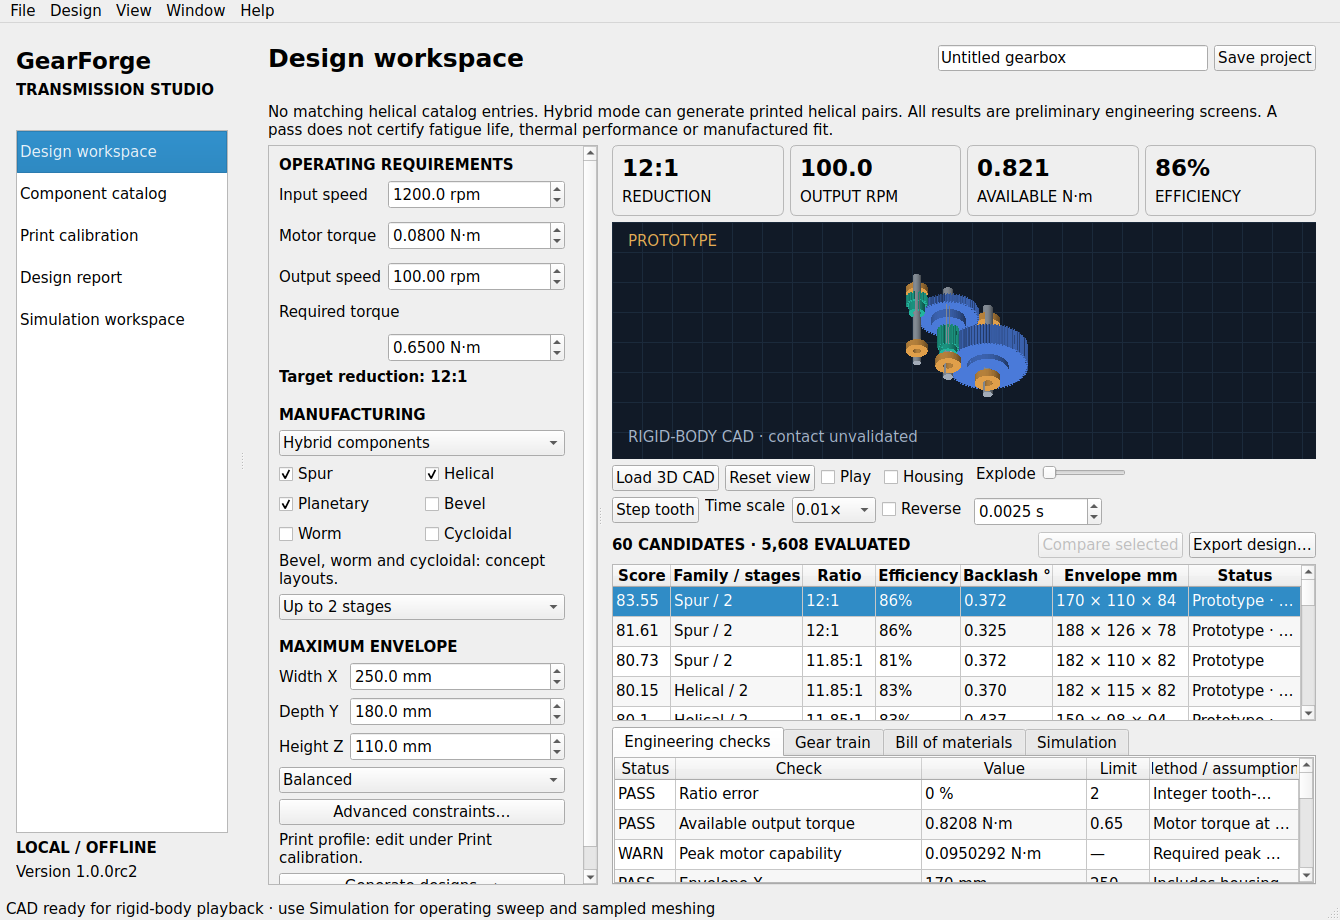
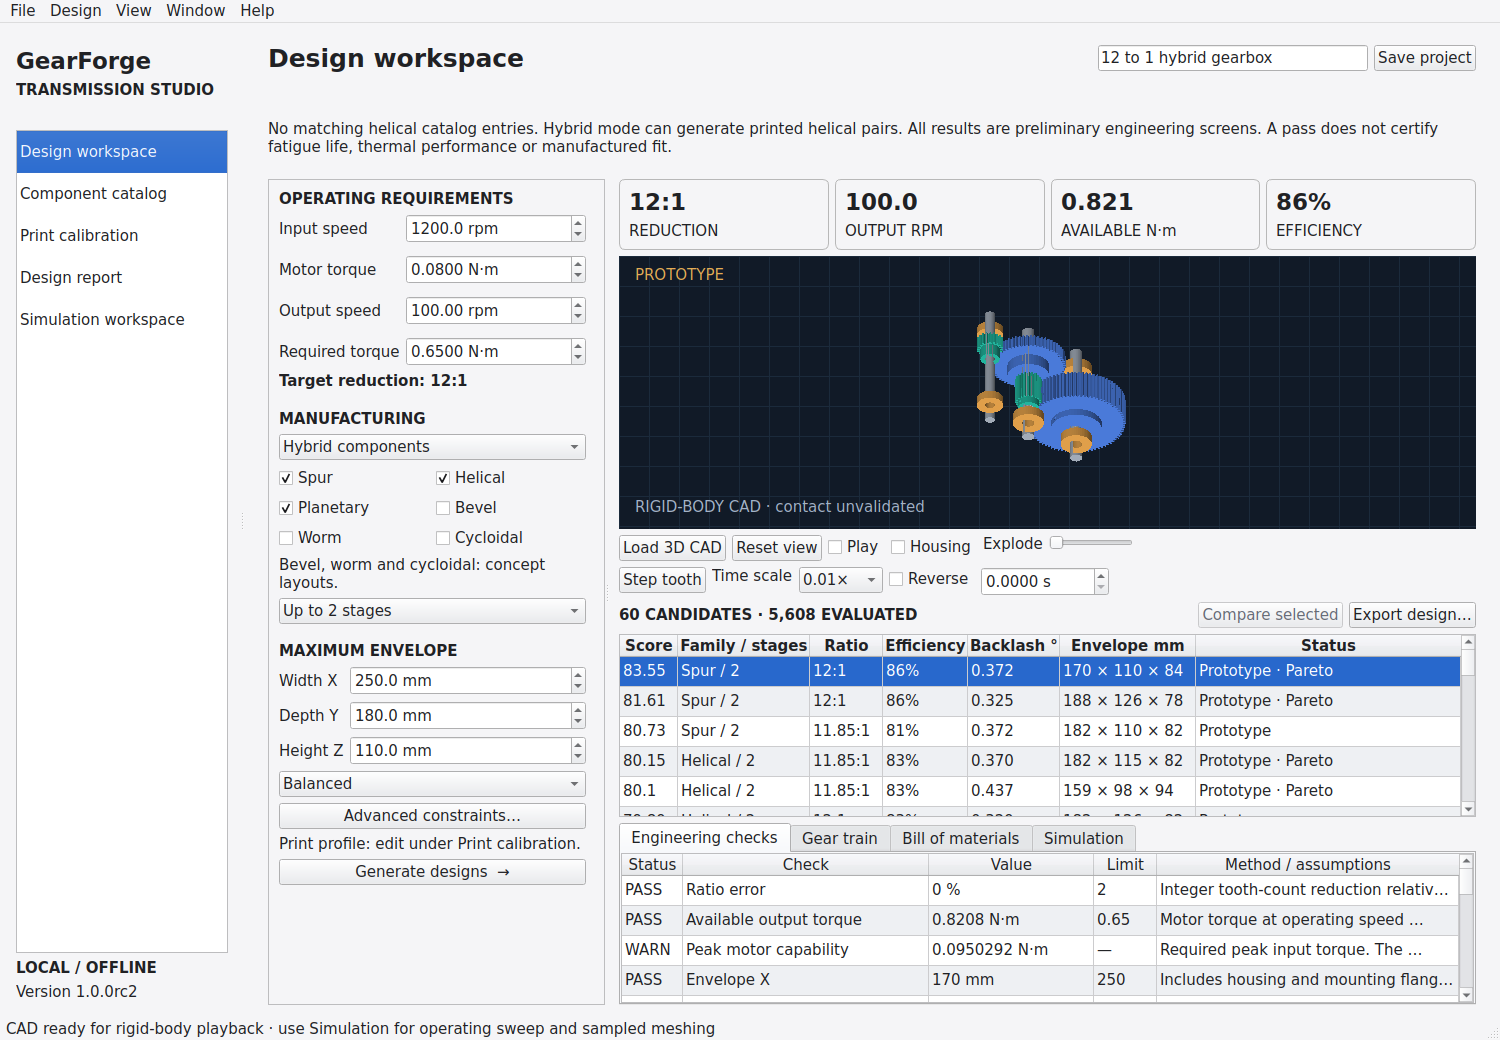
Fix Linux Qt CI dependencies and Reduce Motion tests; expand README gallery

Changed region(s): [[0.0, 0.0, 1.0, 1.0], [0.6425, 0.3043, 0.7649, 0.4565]]

diff --git a/scripts/capture_screenshots.py b/scripts/capture_screenshots.py
@@ -1,0 +1,100 @@
+"""Capture the real desktop app and CAD workers for the README gallery."""
+from __future__ import annotations
+
+import argparse
+import os
+import sys
+import tempfile
+import time
+from pathlib import Path
+
+ROOT = Path(__file__).resolve().parents[1]
+sys.path.insert(0, str(ROOT / "src"))
+
+
+def main():
+    parser = argparse.ArgumentParser(description=__doc__)
+    parser.add_argument("--out", type=Path, default=ROOT / "screenshots")
+    args = parser.parse_args()
+    os.environ.setdefault("QT_QPA_PLATFORM", "offscreen")
+
+    from PySide6.QtCore import QSettings
+    from PySide6.QtWidgets import QApplication
+    from gearforge.app import MainWindow
+
+    output = args.out.resolve()
+    output.mkdir(parents=True, exist_ok=True)
+    app = QApplication.instance() or QApplication([])
+    app.setApplicationName("GearForge Studio")
+    errors = []
+    with tempfile.TemporaryDirectory(prefix="gearforge-gallery-") as directory:
+        settings = QSettings(str(Path(directory) / "settings.ini"), QSettings.IniFormat)
+        settings.setValue("appearance", "light")
+        settings.setValue("reduced_motion", False)
+        settings.sync()
+        window = MainWindow(directory)
+        window.error = lambda error: errors.append(str(error))
+        window.resize(1500, 1040)
+        window.show()
+
+        def settle():
+            for _ in range(3):
+                app.processEvents()
+                time.sleep(0.02)
+
+        def wait_for_worker(timeout=180):
+            deadline = time.monotonic() + timeout
+            while window.process is not None and time.monotonic() < deadline:
+                app.processEvents()
+                time.sleep(0.02)
+            if window.process is not None:
+                raise RuntimeError("Screenshot worker timed out")
+            if errors:
+                raise RuntimeError("; ".join(errors))
+            settle()
+
+        def capture(name, page=0):
+            window.nav.setCurrentRow(page)
+            settle()
+            image = window.grab()
+            path = output / (name + ".png")
+            if image.isNull() or not image.save(str(path)):
+                raise RuntimeError(f"Could not capture {path}")
+            print(path, flush=True)
+
+        def load_design(example):
+            window.dirty = False
+            window.open_project(ROOT / "examples" / example)
+            window.nav.setCurrentRow(0)
+            window.generate()
+            wait_for_worker()
+            if not window.selected:
+                raise RuntimeError("Screenshot example has no selected design")
+            window.load_preview()
+            wait_for_worker()
+            if not window.viewer.meshes:
+                raise RuntimeError("Screenshot example has no CAD meshes")
+
+        try:
+            load_design("12-to-1-hybrid.gearforge")
+            capture("desktop")
+            capture("simulation", 4)
+            capture("catalog", 1)
+            capture("calibration", 2)
+            capture("report", 3)
+            window.explode_slider.setValue(35)
+            capture("exploded")
+            window.explode_slider.setValue(0)
+            load_design("planetary-example.gearforge")
+            capture("planetary")
+            load_design("helical-example.gearforge")
+            capture("helical")
+        finally:
+            window.dirty = False
+            window.close()
+            app.processEvents()
+    return 0
+
+
+if __name__ == "__main__":
+    raise SystemExit(main())

diff --git a/tests/test_simulation.py b/tests/test_simulation.py
@@ -77,11 +77,15 @@ def test_sampled_real_tooth_intersections(catalog,profile,light_requirements):
 
 
 @pytest.mark.gui
-def test_accessible_controls_native_appearance_and_preserved_mesh(tmp_path,catalog,profile,light_requirements):
+@pytest.mark.parametrize("reduce_motion", [False, True])
+def test_accessible_controls_native_appearance_and_preserved_mesh(tmp_path,catalog,profile,light_requirements,monkeypatch,reduce_motion):
     from PySide6.QtWidgets import QApplication,QLabel
     from PySide6.QtCore import Qt
     from PySide6.QtTest import QTest
     from gearforge.app import MainWindow
+    # Runner accessibility preferences are external state. Exercise both settings
+    # explicitly while leaving the application's system preference support intact.
+    monkeypatch.setattr("gearforge.app.system_reduced_motion", lambda: reduce_motion)
     app=QApplication.instance() or QApplication([])
     w=MainWindow(tmp_path);w.show();app.processEvents()
     assert w.fields['input_rpm'].accessibleName()=='Input speed'
@@ -93,7 +97,9 @@ def test_accessible_controls_native_appearance_and_preserved_mesh(tmp_path,catal
     w.viewer.set_candidate(c)
     mesh={'name':c.layout[0]['name'],'center':[0,0,0],'shaft':0,'source':'print','color':[.1,.5,.9],'vertices':[[0,0,0],[1,0,0],[0,1,0]],'triangles':[[0,1,2]]}
     w.viewer.set_meshes([mesh]);w.viewer.animate(True)
-    assert w.viewer.timer.isActive() and len(w.viewer.meshes)==1
+    assert w.reduced_motion is reduce_motion
+    assert w.viewer.timer.isActive() is not reduce_motion
+    assert len(w.viewer.meshes)==1
     w.viewer.reduced_motion=True;w.viewer.animate(True)
     assert not w.viewer.timer.isActive()
     w.viewer.step();assert w.viewer.phase!=0 and len(w.viewer.meshes)==1

diff --git a/README.md b/README.md
@@ -1,5 +1,7 @@
 # GearForge Studio
 
+[![Desktop regression tests](https://github.com/jonahsaunders/Gearforge-Studio/actions/workflows/ci.yml/badge.svg)](https://github.com/jonahsaunders/Gearforge-Studio/actions/workflows/ci.yml)
+
 **Generate, compare, simulate and export gearbox prototypes from operating requirements.**
 
 GearForge Studio is an offline desktop application for exploring gearboxes made
@@ -21,6 +23,7 @@ catalog, dimensional print calibration, rigid-body CAD animation and design expo
 ## Contents
 
 - [Features](#features)
+- [App gallery](#app-gallery)
 - [Supported designs and manufacturing modes](#supported-designs-and-manufacturing-modes)
 - [Requirements and platform status](#requirements-and-platform-status)
 - [Install and launch](#install-and-launch)
@@ -61,6 +64,27 @@ catalog, dimensional print calibration, rigid-body CAD animation and design expo
 
 The search is a bounded discrete exploration of the implemented templates. It
 returns a ranked shortlist with Pareto flags; it does not prove global optimality.
+
+## App gallery
+
+These are captures of the running Qt application with real generated CAD and
+example projects. They were captured on Linux using Qt's offscreen platform;
+native controls, fonts and menus vary by operating system.
+
+| Gearbox previews | Supporting workspaces |
+| --- | --- |
+| **Exploded hybrid assembly** — inspect the separation of gears, shafts and hardware.<br>![Exploded hybrid gearbox with real CAD meshes](screenshots/exploded.png) | **Component catalog** — review source-traceable supplier dimensions and ratings.<br>![Component catalog with six source-traceable KHK records](screenshots/catalog.png) |
+| **Planetary prototype** — fixed ring, sun input and three planets.<br>![Generated planetary gearbox prototype CAD](screenshots/planetary.png) | **Print calibration** — record material assumptions, clearances and coupon measurements.<br>![Print profile and dimensional calibration workspace](screenshots/calibration.png) |
+| **Helical prototype** — generated gears with opposite helix hands.<br>![Generated helical gearbox prototype CAD](screenshots/helical.png) | **Design report** — review the selected design's calculations and assumptions.<br>![Design report with engineering assumptions and selected gearbox data](screenshots/report.png) |
+
+Regenerate all eight README images with an installed development environment:
+
+```bash
+python scripts/capture_screenshots.py
+```
+
+The capture script uses a temporary project-data directory and the included
+examples. It does not change your saved projects or catalog.
 
 ## Supported designs and manufacturing modes
 
@@ -123,6 +147,16 @@ cd Gearforge-Studio
 ```
 
 ### Linux and macOS
+
+On Ubuntu 24.04, install the Qt runtime libraries before launching the GUI or
+running desktop tests. Qt still loads EGL/OpenGL libraries in offscreen mode:
+
+```bash
+sudo apt-get update
+sudo apt-get install -y libegl1 libgl1 libopengl0 libxkbcommon0 libxcb-cursor0
+```
+
+Then create the Python environment (on macOS, start here):
 
 ```bash
 python3 -m venv .venv
@@ -386,15 +420,19 @@ python -m pytest -q --junitxml=build/test-results.xml
 Remove-Item Env:QT_QPA_PLATFORM
 ```
 
-The recorded rc2 full suite passed **48 tests**, with an additional final GUI pass.
+The original rc2 baseline passed **48 tests**, with an additional final GUI pass.
+The current suite passed **49 tests** on Linux offscreen after making the GUI
+test cover both Reduce Motion settings explicitly.
 Coverage includes numerical constraints, catalogs/projects, CLI/worker flows,
 real CAD solids/interference/STEP round-trips, export manifests, timed motion,
 planetary relations, power balance, stale results and reduced-motion behavior.
 A deliberately misaligned gear phase is a negative control for collision detection.
 See [VALIDATION.json](VALIDATION.json) for exact evidence and untested targets.
 
-These local results do not imply that the included remote CI workflows have run
-or that physical gearbox load/life has been validated.
+The [regression workflow](https://github.com/jonahsaunders/Gearforge-Studio/actions/workflows/ci.yml)
+checks all three target operating systems and uploads test results. Headless
+desktop tests do not establish interactive platform usability or physical
+gearbox load/life validation.
 
 ## Build packages and GitHub releases
 
@@ -474,6 +512,7 @@ and the [release guide](docs/GITHUB_RELEASE.md).
 | --- | --- |
 | Installation cannot find compatible wheels | Use 64-bit Python 3.12 in a fresh environment; check the platform and core version constraints |
 | GUI cannot start on Linux | Run from a graphical session; inspect Qt display-library errors. The recorded host lacked `libxcb-cursor.so.0`, commonly supplied by `libxcb-cursor0` |
+| Tests report missing `libEGL.so.1` | Install the Ubuntu Qt runtime libraries listed under Install and launch; `QT_QPA_PLATFORM=offscreen` does not remove this shared-library requirement |
 | GUI is invisible after tests | Remove `QT_QPA_PLATFORM=offscreen` from the normal launch environment |
 | No feasible candidates | Review rejection explanations; check ratio, envelope, torque, module, backlash, mode and catalog constraints |
 | CAD/export requests regeneration | Requirements, profile or catalog changed; generate a new shortlist |
@@ -491,10 +530,10 @@ and the [release guide](docs/GITHUB_RELEASE.md).
 | `src/gearforge/data/` | Source-traceable seed catalog and application icon |
 | `tests/` | Numerical, data, CAD, GUI, worker and release regression tests |
 | `examples/` | Editable `.gearforge` examples for supported families/modes |
-| `screenshots/` | Design and simulation workspace previews |
+| `screenshots/` | Eight actual app captures: design, simulation, CAD variants, catalog, calibration and report |
 | `docs/` | Architecture, simulation methods, GUI audit and release instructions |
 | `packaging/` | Native build spec, launcher templates and supplemental license texts |
-| `scripts/` | Version checks, license collection, package/archive creation |
+| `scripts/` | Version checks, license collection, package/archive creation and reproducible app captures |
 | `.github/` | Test/release workflows and contribution templates |
 | `VALIDATION.json` | Recorded test/platform evidence and outstanding validation |
 

diff --git a/CHANGELOG.md b/CHANGELOG.md
@@ -1,3 +1,13 @@
+# Unreleased
+
+- Install Qt's Linux runtime libraries in regression and release workflows,
+  including the EGL library required by headless desktop tests.
+- Exercise animation with Reduce Motion both enabled and disabled, independent
+  of the CI host's accessibility preferences.
+- Add six actual app captures to the README: exploded hybrid, planetary and
+  helical CAD, component catalog, print calibration and design report. Refresh
+  the design/simulation images and include a reproducible capture script.
+
 # 1.0.0rc2 — 2026-10-06
 
 Native appearance, accessible controls, keyboard/document behavior, deterministic
